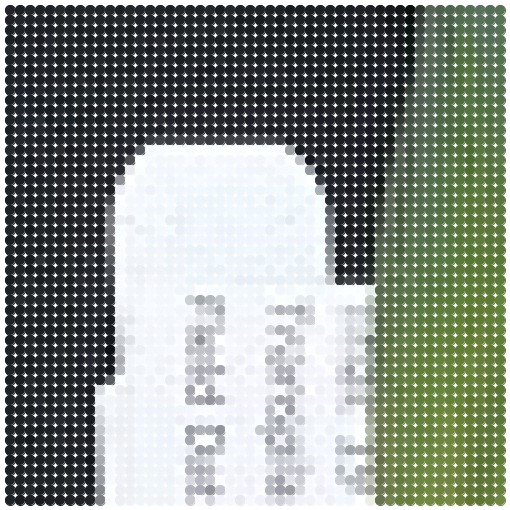
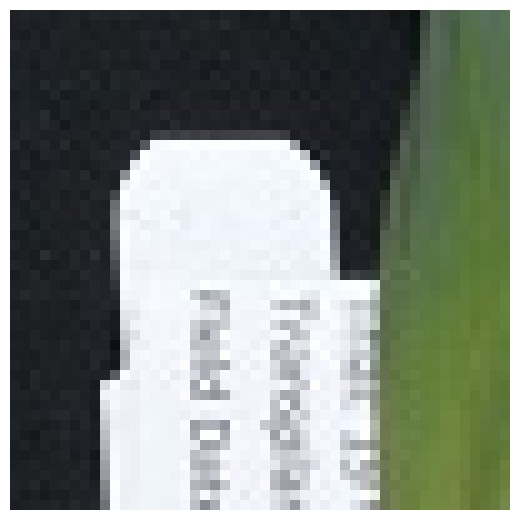
adding objectives, etc; and blur demo gif

diff --git a/episodes/02-opencv-images.md b/episodes/02-opencv-images.md
@@ -3,11 +3,37 @@ title: "OpenCV Images"
 teaching: 30
 exercises: 0
 questions:
-- "What are the questions?"
+- "How are digital images stored in Python with the OpenCV computer vision library?"
 objectives:
-- "What are the objectives?"
+- "Explain how OpenCV images are stored in NumPy arrays."
+- "Explain the order of the three color values in OpenCV images."
+- "Read, display, and save images using OpenCV methods."
+- "Resize images with OpenCV methods."
+- "Perform simple image thresholding with NumPy array operations."
+- "Explain why command-line parameters are useful."
+- "Extract subimages using array slicing."
+- "Explain what happens to image metadata when an image is loaded in to one of
+our Python programs."
 keypoints:
-- "What are the key points?"
+- "OpenCV images are stored as three-dimensional NumPy arrays."
+- "In OpenCV images, the blue channel is specified first, then the green, then
+the red, i.e., BGR instead of RGB."
+- "Images are read from disk with the `cv2.imread()` method."
+- "We create a sizable window that automatically scales the displayed image 
+with the `cv2.namedWindow()` method."
+- "We cause an image to be displayed in a window with the `cv2.imshow()` 
+method."
+- "We cause our program to pause until we press a key with the `cv2.waitKey(0)`
+method call."
+- "We can resize images with the `cv2.resize()` method."
+- "NumPy array commands, like `img[img < 128] = 0`, and be used to manipulate
+the pixels of an OpenCV image."
+- "Command-line arguments are accessed via the `sys.argv` list; `sys.argv[1]`
+is the first parameter passed to the program, `sys.argv[2]` is the second, 
+and so on."
+- "Array slicing can be used to extract subimages or modify areas of OpenCV
+images, e.g., `clip = img[60:150, 135:480, :]`."
+- "Metadata is not retained when images are loaded as OpenCV images."
 ---
 
 Now that we know a bit about computer images in general, let us turn to more
@@ -206,10 +232,13 @@ while ignoring the black background.
 ![Root cluster image](../fig/02-roots.jpg)
 
 Since the image is stored as an array of numbers, we can simply look through
-the array for pixel color values that are less than some threshold value. 
-NumPy has a very elegant method for doing just that. Consider this program,
-which keeps only the pixel color values in an image that have value greater
-than or equal to 128.
+the array for pixel color values that are less than some threshold value. This
+process is called *thresholding*, and we will see more powerful methods to 
+perform the thresholding task in the 
+[Thresholding]({{ page.root }}./06-thresholding.md) episode. Here, though, we
+will look at a simple and elegant NumPy method for thresholding. Consider this 
+program, which keeps only the pixel color values in an image that have value 
+greater than or equal to 128.
 
 ~~~
 '''
@@ -275,7 +304,7 @@ extraneous background detail has been removed.
 > In the previous example, we showed how we could use Python and OpenCV to turn
 > on only the high intensity pixels from an image, while turning all the low 
 > intensity pixels off. Now, you can practice doing the opposite -- keeping all
-> the low intensity pixels while changing the high intensisty ones. Consider 
+> the low intensity pixels while changing the high intensity ones. Consider 
 > this image of a Su-Do-Ku puzzle, named **sudoku.png**:
 > 
 > ![Su-Do-Ku puzzle](../fig/02-sudoku.png)

diff --git a/episodes/01-image-basics.md b/episodes/01-image-basics.md
@@ -3,11 +3,32 @@ title: "Image Basics"
 teaching: 30
 exercises: 0
 questions:
-- "What are the questions?"
+- "How are images represented in digital format?"
 objectives:
-- "What are the objectives?"
+- "Explain how a digital image is composed of pixels."
+- "Explain the left-hand coordinate system used in digital images."
+- "Explain the RGB additive color model used in digital images."
+- "Explain the characteristics of the BMP, JPEG, and TIFF image formats."
+- "Explain the difference between lossy and lossless compression."
+- "Explain the advantages and disadvantages of compressed image formats."
+- "Explain what information could be contained in image metadata."
 keypoints:
-- "What are the key points?"
+- "Digital images are represented as rectangular arrays of square pixels."
+- "Digital images use a left-hand coordinate system, with the origin in the 
+upper left corner, the x-axis running to the right, and the y-axis running
+down."
+- "Most frequently, digital images use an additive RGB model, with eight bits
+for the red, green, and blue channels."
+- "Lossless compression retains all the details in an image, but lossy 
+compression results in loss of some of the original image detail."
+- "BMP images uncompressed, meaning they have high quality but also that their
+file sizes are large."
+- "JPEG images use lossy compression, meaning that their file sizes are 
+smaller, but image quality may suffer."
+- "TIFF images can be uncompressed or compressed with lossy or lossless 
+compression."
+- "Depending on the camera or sensor, various useful pieces of information may
+be stored in an image file, in the image metadata."
 ---
 
 The images we see on hard copy, view with our electronic devices, or process 
@@ -20,8 +41,8 @@ to spend some time understanding how these abstractions work.
 
 First it is important to realize that images are stored as rectangular arrays 
 of hundreds, thousands, or millions of discrete "picture elements," otherwise 
-known as pixels. Each pixel can be thought of as a single point of colored 
-light.
+known as pixels. Each pixel can be thought of as a single square point of 
+colored light.
 
 For example, consider this image of a maize seedling, with a square area 
 designated by a red box:
@@ -33,7 +54,7 @@ see something like this:
 
 ![Enlarged image area](../fig/01-enlarged.jpg)
 
-Note that each circle in the enlarged image area -- each pixel -- is all one 
+Note that each square in the enlarged image area -- each pixel -- is all one 
 color, but that each pixel can have a different color from its neighbors. 
 Viewed from a distance, these pixels seem to blend together to form the image 
 we see. 

diff --git a/episodes/04-creating-histograms.md b/episodes/04-creating-histograms.md
@@ -3,11 +3,22 @@ title: "Creating Histograms"
 teaching: 30
 exercises: 0
 questions:
-- "What are the questions?"
+- "How can we create grayscale and color histograms to understand the 
+distribution of color values in an image?"
 objectives:
-- "What are the objectives?"
+- "Explain what a histogram is."
+- "Load an image in grayscale format."
+- "Create and display grayscale and color histograms for entire OpenCV images."
+- "Create and display grayscale and color histograms for certain areas of 
+OpenCV images, via masks."
 keypoints:
-- "What are the key points?"
+- "We can load images in grayscale by passing the `cv2.IMREAD_GRAYSCALE` 
+parameter to the `cv2.imread()` method."
+- "We can create histograms of OpenCV images with the `cv2.calcHist()` 
+method."
+- "We can separate the RGB channels of an image with the `cv2.split()` method."
+- "We can display histograms using the `matplotlib pyplot` `figure()`, 
+`title()`, `xlabel()`, `ylabel()`, `xlim()`, `plot()`, and `show()` methods."
 ---
 
 In this episode, we will learn how to use OpenCV functions to create and 
@@ -145,8 +156,8 @@ the program produces this histogram:
 > program is a copy of the mask program above, with comments showing where to
 > make changes. 
 > 
-> First, use ImageJ to determine the *(x, y)* coordinates of a bounding box 
-> around the leaf of the seedling. Then, using techniques from the
+> First, use a tool like ImageJ to determine the *(x, y)* coordinates of a 
+> bounding box around the leaf of the seedling. Then, using techniques from the
 > [Drawing and Bitwise Operations]({{ page.root }}/03-drawing-bitwise/)
 > episode, create a mask with a white rectangle covering that bounding box. 
 > 

diff --git a/episodes/05-blurring.md b/episodes/05-blurring.md
@@ -3,9 +3,10 @@ title: "Blurring images"
 teaching: 30
 exercises: 0
 questions:
-- "What are the questions?"
+- "How can we apply a low-pass blurring filter to an image?"
 objectives:
-- "What are the objectives?"
+- "Explain why applying a low-pass blurring filter to an image is beneficial."
+- "Apply an averaging filter to an image using OpenCV."
 keypoints:
 - "What are the key points?"
 ---
@@ -28,10 +29,10 @@ particular the area of the image outlined by the white square.
 
 ![Cat image](../fig/05-cat-snap.jpg)
 
-Now, zoom in on the area of the cat's eye, as shown in the left image below.
-When we apply a averaging blur filter, we consider each pixel in the image,
-one at a time. In this example, the pixel we are applying the filter to is
-highlighted in red, as shown in the right-hand image. 
+Now, zoom in on the area of the cat's eye, as shown in the left-hand image 
+below. When we apply a averaging blur filter, we consider each pixel in the 
+image, one at a time. In this example, the pixel we are applying the filter to 
+is highlighted in red, as shown in the right-hand image. 
 
 ![Cat eye pixels](../fig/05-cat-eye-pixels.jpg)
 
@@ -109,6 +110,8 @@ missing pixels, you will see how this works:
 A similar process would be used to fill in all of the other missing pixels from
 the kernel. Other *border options* are available; you can learn more about them
 in the [OpenCV documentation](http://docs.opencv.org/). 
+
+![Blur demo animation](../fig/05-blur-demo.gif)
 
 OpenCV has built-in methods to perform blurring for us, so we do not have to 
 perform all of these mathematical operations ourselves. 

diff --git a/setup.md b/setup.md
@@ -46,8 +46,8 @@ the details regarding our machine and its pre-installed software suite.
 [link](https://www.virtualbox.org/wiki/Downloads "VirtualBox download")
 
 2. Download the DIVAS virtual machine image via this 
-[link](https://drive.google.com/file/d/0Bx45j2TRK8WgN0hwUC1RVVQ3WlE/view?usp=sharing)
-. This a 6 GB file, so the download will likely take a while.
+[link](https://drive.google.com/file/d/0Bx45j2TRK8WgUVJDQmVPakdJS28/view?usp=sharing)
+. This a 7 GB file, so the download will likely take a while.
 
 3. Start your VirtualBox application.
 
@@ -88,10 +88,22 @@ and choosing the "Shut Down" item.
 	* Execute the mygit script, like this (use your own information, 
 and make sure to include the quotes):
 
-~~~
-mygit "Jane Smith" "jane.smith@mail.com"
-~~~
-{: .bash}
+	~~~
+	mygit "Jane Smith" "jane.smith@mail.com"
+	~~~
+	{: .bash}
+
+6. Clone the files needed for the workshops
+
+	* Open a Terminal window
+
+	* Execute the following commands to clone the files:
+
+	~~~
+	cd ~/Desktop
+	git clone https://mmeysenburg@bitbucket.org/mmeysenburg/workshops.git
+	~~~
+	{: .bash}
 
 
 

diff --git a/episodes/03-drawing-bitwise.md b/episodes/03-drawing-bitwise.md
@@ -3,11 +3,19 @@ title: "Drawing and Bitwise Operations"
 teaching: 30
 exercises: 0
 questions:
-- "What are the questions?"
+- "How can we draw on OpenCV images and use bitwise operations and masks to 
+select certain parts of an image?"
 objectives:
-- "What are the objectives?"
+- "Create a blank, black OpenCV image."
+- "Draw rectangles and other shapes on OpenCV images."
+- "Explain how a white shape on a black background can be used as a mask to 
+select specific parts of an image."
+- "Use bitwise operations to apply a mask to an image."
 keypoints:
-- "What are the key points?"
+- "We can use the NumPy `zeros()` method to create a blank, black image."
+- "We can draw on OpenCV images with methods such as `cv2.rectangle()`, 
+`cv2.circle()`, `cv2.line()`, and more."
+- "We can use the `cv2.bitwise_and()` method to apply a mask to an image."
 ---
 
 The next series of episodes covers a basic toolkit of OpenCV operators. With 
